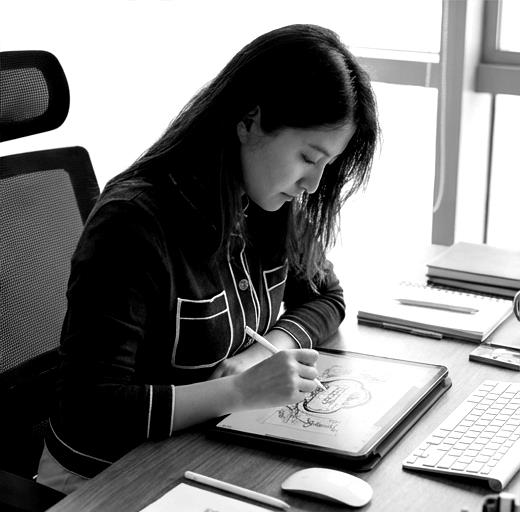
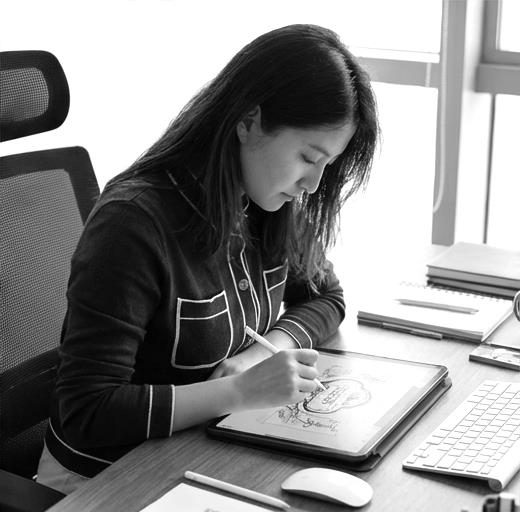
优化肖像照：提亮暗部，去除边框

diff --git a/styles.css b/styles.css
@@ -433,13 +433,14 @@ body {
 .image-frame {
     width: 100%;
     aspect-ratio: 3/4;
-    background: linear-gradient(145deg, #f5f5f7, #e8e8ed);
-    border-radius: 16px;
-    display: flex;
-    align-items: center;
-    justify-content: center;
-    color: var(--gray);
-    font-size: 0.9rem;
+    border-radius: 8px;
+    overflow: hidden;
+}
+
+.image-frame img {
+    width: 100%;
+    height: 100%;
+    object-fit: cover;
 }
 
 .about-content .section-title {
